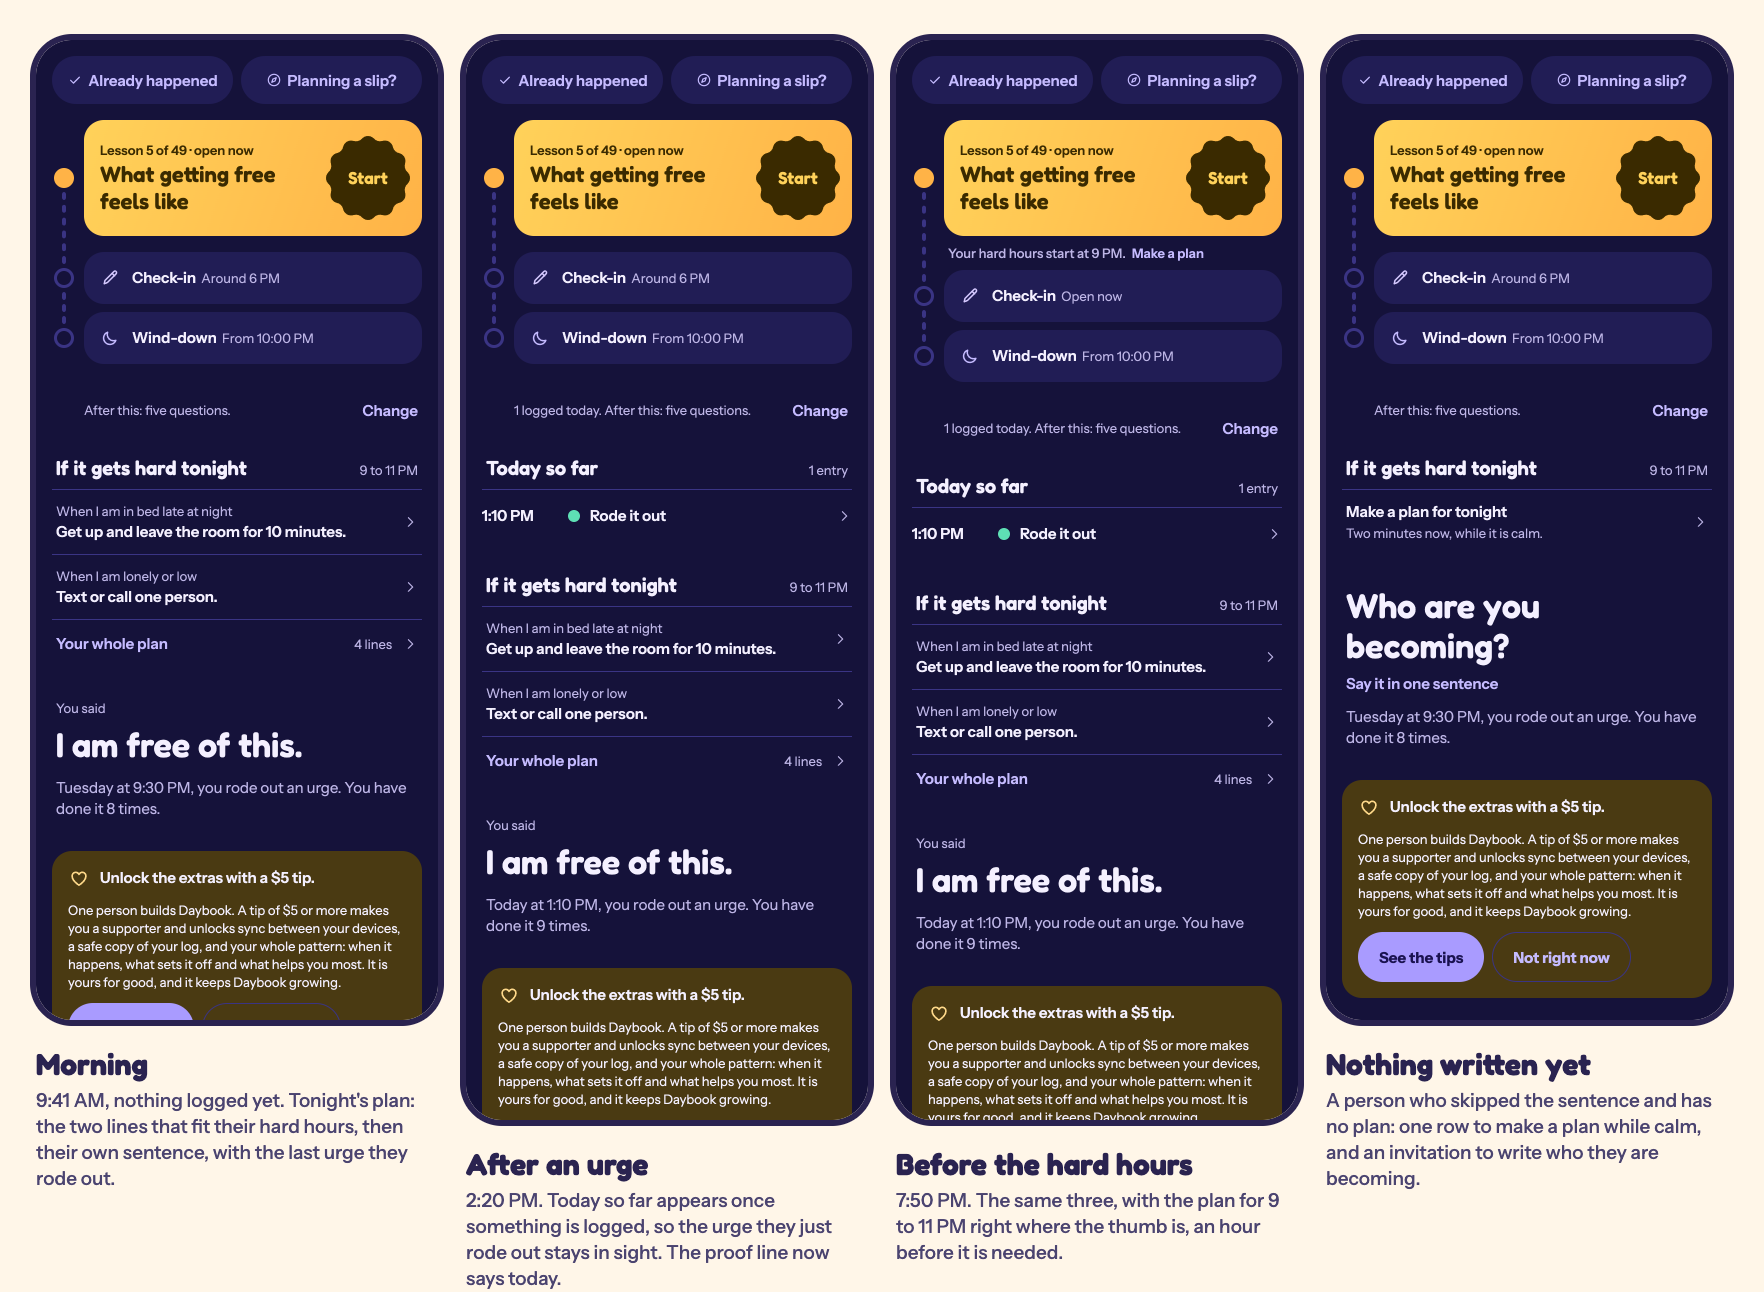
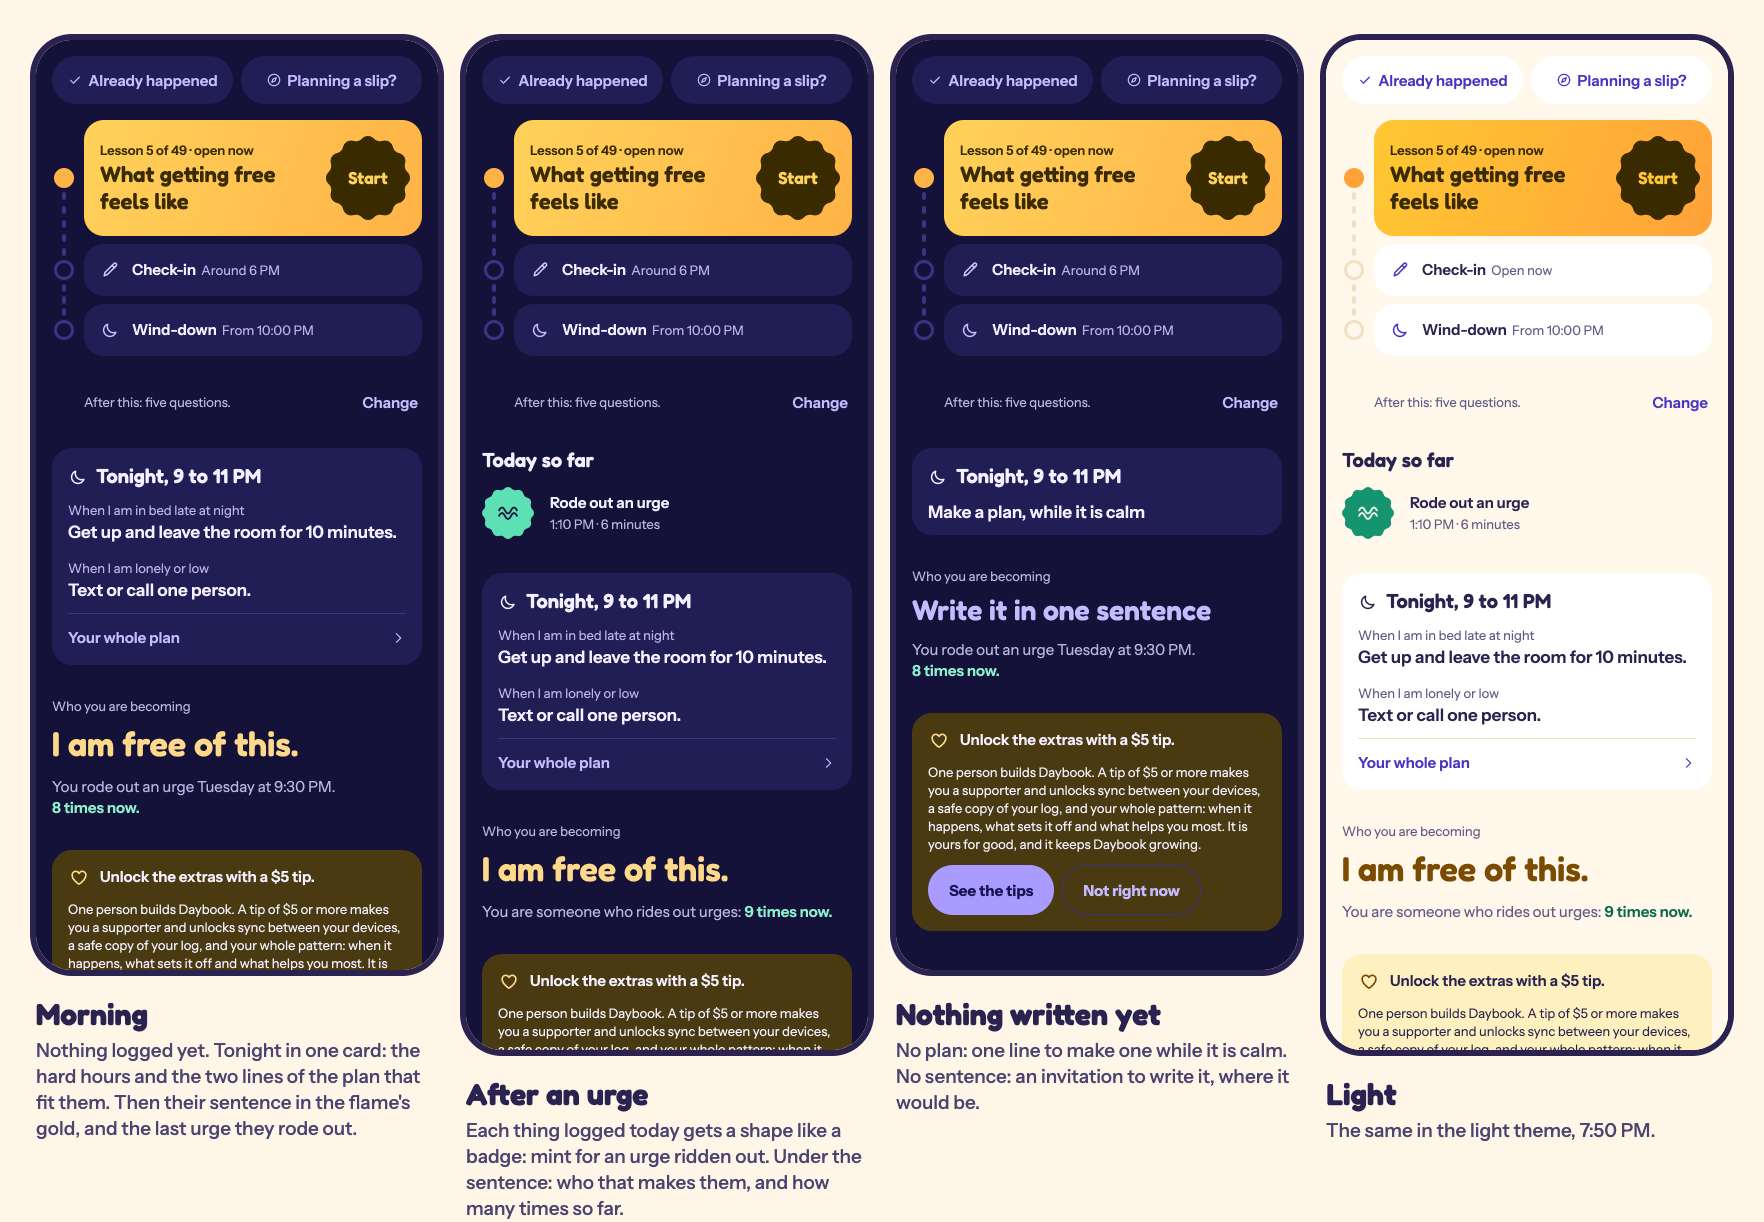
Today below Your day, polished: shapes for today's entries, tonight as one card, the sentence in gold (prototype)

diff --git a/apps/mobile/src/components/today-below.tsx b/apps/mobile/src/components/today-below.tsx
@@ -1,11 +1,12 @@
 /* PROTOTYPE (mockups only, not for merge): what Today holds under Your day, from the person's own words and record. ?below=1 on the
    web turns it on. Today so far (the day's entries, which only Journal shows now), Tonight's plan (the if-then lines from My plan,
    with the hard hours), and who you are becoming (the sentence from the end of setup, with one true line from the log). */
-import { addDays, eventRow, eventsOf, fmtDate, planBlank, riskWindow, type Snapshot } from '@daybook/core';
+import { addDays, eventRow, eventsOf, fmtDate, planBlank, riskWindow, sortedEvents, type Snapshot } from '@daybook/core';
 import { router } from 'expo-router';
 import { Pressable, StyleSheet, View } from 'react-native';
 
-import { EntryRows } from '@/components/entry-rows';
+import { Shape } from '@/components/shapes';
+import { Text } from '@/components/text';
 import { Icon, T } from '@/components/ui';
 import { buzz } from '@/lib/feel';
 import { font, useTheme } from '@/lib/theme';
@@ -20,15 +21,21 @@ const go = (p: string) => {
   router.push(p as never);
 };
 
-/** the latest urge ridden out in the last two weeks, said as a moment: "Tuesday at 9:30 PM, you rode out an urge." */
+/** the latest urge ridden out in the last two weeks, said as a moment ("Tuesday at 9:30 PM, you rode out an urge."), and how many in all */
 function proofOf(snap: Snapshot, tk: string) {
   const st = snap.settings!;
   const all = eventsOf(snap.days).filter((e) => e.outcome === 'rode' && e.key <= tk);
+  if (!all.length) return null;
+  /* one ridden out today is already in Today so far: say who that makes them instead */
+  if (all[all.length - 1].key === tk) return { t: 'You are someone who rides out urges:', n: all.length + '\u00a0times\u00a0now.' };
   const last = all.filter((e) => e.key >= addDays(tk, -13)).pop();
   if (!last) return null;
   const when = last.key === tk ? 'Today' : last.key === addDays(tk, -1) ? 'Yesterday' : fmtDate(last.key, { weekday: 'long' });
   const at = last.time ? ' at ' + eventRow(last, st).time : '';
-  return when + at + ', you rode out an urge. You have done it ' + all.length + ' times.';
+  return {
+    t: 'You rode out an urge ' + (when === 'Today' || when === 'Yesterday' ? when.toLowerCase() : when) + at + '.',
+    n: all.length === 1 ? 'Your\u00a0first.' : all.length + '\u00a0times\u00a0now.',
+  };
 }
 
 /** the two lines of the urge plan that fit tonight: the one for late at night when the hard hours are late, and the one for the
@@ -56,7 +63,7 @@ function planTonight(snap: Snapshot, tk: string) {
 export function TodayBelow({ snap, tk }: { snap: Snapshot; tk: string }) {
   const c = useTheme();
   const st = snap.settings!;
-  const n = (snap.days[tk]?.events || []).length;
+  const evs = sortedEvents(snap.days[tk], st.rollover);
   const plan = BLANK ? [] : planTonight(snap, tk);
   const all = (st.plan || []).filter((p) => !planBlank(p) && p.then.trim()).length;
   const be = BLANK ? '' : String(st.becoming || '').trim();
@@ -64,95 +71,78 @@ export function TodayBelow({ snap, tk }: { snap: Snapshot; tk: string }) {
   const proof = proofOf(snap, tk);
   return (
     <View style={s.all}>
-      {n ? (
+      {evs.length ? (
         <View style={s.sec}>
-          <View style={s.head}>
-            <T v="h2">Today so far</T>
-            <T v="small" tone="muted">
-              {n === 1 ? '1 entry' : n + ' entries'}
-            </T>
-          </View>
-          <EntryRows date={tk} />
+          <T v="h2" style={s.pad}>
+            Today so far
+          </T>
+          {evs.map((e) => {
+            const r = eventRow(e, st);
+            const rode = e.outcome === 'rode';
+            return (
+              <Pressable
+                key={e.id}
+                accessibilityRole="button"
+                onPress={() => go('/entry?date=' + tk + '&id=' + e.id)}
+                style={({ pressed }) => [s.moment, { opacity: pressed ? 0.8 : 1 }]}>
+                <Shape kind={rode ? 'cookie12' : 'clover4'} size={52} color={rode ? c.mint : c.slip} turn={rode ? 0 : 0.1}>
+                  <Icon name={rode ? 'wave' : 'leaf'} size={24} color={c.bg} />
+                </Shape>
+                <View style={{ flex: 1, gap: 2 }}>
+                  <T v="label">{rode ? 'Rode out an urge' : 'Logged a slip'}</T>
+                  <T v="small" tone="muted">
+                    {[r.time, e.m ? e.m + ' minutes' : '', (e.did || [])[0] || r.meta].filter(Boolean).join(' · ')}
+                  </T>
+                </View>
+              </Pressable>
+            );
+          })}
         </View>
       ) : null}
 
-      <View style={s.sec}>
-        <View style={s.head}>
-          <T v="h2">If it gets hard tonight</T>
-          {win ? (
-            <T v="small" tone="muted">
-              {win.label}
-            </T>
-          ) : null}
+      <View style={[s.card, { backgroundColor: c.surface }]}>
+        <View style={s.cardHead}>
+          <Icon name="moon" size={20} color={c.ink} />
+          <Text style={[s.cardH, { color: c.ink }]}>{win ? 'Tonight, ' + win.label : 'If it gets hard tonight'}</Text>
         </View>
         {plan.length ? (
-          <View>
-            {plan.map((p, i) => (
-              <Pressable
-                key={i}
-                accessibilityRole="button"
-                onPress={() => go('/plan')}
-                style={({ pressed }) => [s.row, { borderTopColor: c.line, opacity: pressed ? 0.75 : 1 }]}>
-                <View style={{ flex: 1, gap: 2 }}>
-                  <T v="small" tone="muted">
-                    When {p.when.replace(/^when\s+/i, '')}
-                  </T>
-                  <T v="label">{p.then}</T>
-                </View>
-                <Icon name="next" size={16} color={c.muted} />
-              </Pressable>
-            ))}
-            {all > plan.length ? (
-              <Pressable
-                accessibilityRole="button"
-                onPress={() => go('/plan')}
-                style={({ pressed }) => [s.row, { borderTopColor: c.line, minHeight: 48, opacity: pressed ? 0.75 : 1 }]}>
-                <T v="label" tone="accentText" style={{ flex: 1 }}>
-                  Your whole plan
-                </T>
-                <T v="small" tone="muted">
-                  {all} lines
-                </T>
-                <Icon name="next" size={16} color={c.muted} />
-              </Pressable>
-            ) : null}
-          </View>
-        ) : (
-          <Pressable
-            accessibilityRole="button"
-            onPress={() => go('/talk')}
-            style={({ pressed }) => [s.row, { borderTopColor: c.line, opacity: pressed ? 0.75 : 1 }]}>
-            <View style={{ flex: 1, gap: 2 }}>
-              <T v="label">Make a plan for tonight</T>
+          plan.map((p, i) => (
+            <Pressable key={i} accessibilityRole="button" onPress={() => go('/plan')} style={({ pressed }) => [s.line, { opacity: pressed ? 0.8 : 1 }]}>
               <T v="small" tone="muted">
-                Two minutes now, while it is calm.
+                When {p.when.replace(/^when\s+/i, '').replace(/^I am\b/, 'I am')}
               </T>
-            </View>
-            <Icon name="next" size={16} color={c.muted} />
+              <T style={[s.then, { color: c.ink }]}>{p.then}</T>
+            </Pressable>
+          ))
+        ) : (
+          <Pressable accessibilityRole="button" onPress={() => go('/talk')} style={({ pressed }) => [s.line, { opacity: pressed ? 0.8 : 1 }]}>
+            <T style={[s.then, { color: c.ink }]}>Make a plan, while it is calm</T>
           </Pressable>
         )}
+        {plan.length && all > plan.length ? (
+          <Pressable
+            accessibilityRole="button"
+            onPress={() => go('/plan')}
+            style={({ pressed }) => [s.foot, { borderTopColor: c.line, opacity: pressed ? 0.8 : 1 }]}>
+            <T v="label" tone="accentText" style={{ flex: 1 }}>
+              Your whole plan
+            </T>
+            <Icon name="next" size={16} color={c.accentText} />
+          </Pressable>
+        ) : null}
       </View>
 
-      <Pressable accessibilityRole="button" onPress={() => go('/plan')} style={({ pressed }) => [s.be, { opacity: pressed ? 0.8 : 1 }]}>
-        {be ? (
-          <>
-            <T v="small" tone="muted">
-              You said
-            </T>
-            <T style={[s.beT, { color: c.ink }]}>{be}</T>
-          </>
-        ) : (
-          <>
-            <T style={[s.beT, { color: c.ink }]}>Who are you becoming?</T>
-            <T v="label" tone="accentText">
-              Say it in one sentence
-            </T>
-          </>
-        )}
+      <Pressable accessibilityRole="button" onPress={() => go('/plan')} style={({ pressed }) => [s.be, { opacity: pressed ? 0.85 : 1 }]}>
+        <T v="small" tone="muted">
+          Who you are becoming
+        </T>
+        <Text style={[s.beT, { color: be ? c.sunText : c.accentText }, !be && { fontSize: 28, lineHeight: 34 }]}>{be || 'Write it in one sentence'}</Text>
         {proof ? (
-          <T tone="muted" style={s.proof}>
-            {proof}
-          </T>
+          <View style={s.proof}>
+            <Text style={[s.proofT, { color: c.muted }]}>
+              {proof.t} <Text style={{ color: c.mintText, fontFamily: font.bodySemi }}>{proof.n}</Text>
+            </Text>
+          </View>
         ) : null}
       </Pressable>
     </View>
@@ -161,10 +151,17 @@ export function TodayBelow({ snap, tk }: { snap: Snapshot; tk: string }) {
 
 const s = StyleSheet.create({
   all: { gap: 32, paddingTop: 8 },
-  sec: { gap: 8 },
-  head: { flexDirection: 'row', alignItems: 'baseline', justifyContent: 'space-between', paddingHorizontal: 4 },
-  row: { flexDirection: 'row', alignItems: 'center', gap: 10, paddingVertical: 12, paddingHorizontal: 4, borderTopWidth: 1, minHeight: 56 },
-  be: { gap: 8, paddingHorizontal: 4, paddingBottom: 16 },
-  beT: { fontFamily: font.display, fontSize: 34, lineHeight: 40 },
-  proof: { fontSize: 15, lineHeight: 21, marginTop: 4 },
+  sec: { gap: 12 },
+  pad: {},
+  moment: { flexDirection: 'row', alignItems: 'center', gap: 16, minHeight: 56 },
+  card: { borderRadius: 20, padding: 16, paddingBottom: 4 },
+  cardHead: { flexDirection: 'row', alignItems: 'center', gap: 8, paddingBottom: 4 },
+  cardH: { fontFamily: font.display, fontSize: 20, lineHeight: 25 },
+  line: { gap: 2, paddingVertical: 8 },
+  then: { fontFamily: font.bodySemi, fontSize: 17, lineHeight: 22 },
+  foot: { flexDirection: 'row', alignItems: 'center', minHeight: 48, marginTop: 4, borderTopWidth: StyleSheet.hairlineWidth },
+  be: { gap: 8, paddingBottom: 16 },
+  beT: { fontFamily: font.display, fontSize: 34, lineHeight: 41 },
+  proof: { marginTop: 4 },
+  proofT: { fontFamily: font.body, fontSize: 15, lineHeight: 21 },
 });

diff --git a/apps/mobile/src/app/(tabs)/index.tsx b/apps/mobile/src/app/(tabs)/index.tsx
@@ -320,13 +320,13 @@ export default function Today() {
           </View>
         ) : null}
         <YourDay
-          note={<HardLine snap={snap} tk={tk} now={now} />}
+          note={BELOW ? null : <HardLine snap={snap} tk={tk} now={now} />}
           footOff={Platform.OS === 'ios' && atRest}
           snap={snap}
           tk={tk}
           now={now}
           hero={calm ? pick.card : null}
-          foot={[note ? note + '.' : '', pick.more ? 'After this: ' + pick.more.one + '.' : ''].filter(Boolean).join(' ')}
+          foot={[note && !BELOW ? note + '.' : '', pick.more ? 'After this: ' + pick.more.one + '.' : ''].filter(Boolean).join(' ')}
         />
         {BELOW ? <TodayBelow snap={snap} tk={tk} /> : null}
         <SyncStrip />

diff --git a/docs/plan.md b/docs/plan.md
@@ -93,6 +93,12 @@ bring up what the person already wrote in setup and what they already logged (it
 - **Who you are becoming:** the sentence from the end of setup, big, with one true line from the log ("Tuesday at 9:30 PM, you rode out
   an urge. You have done it 8 times."). Without the sentence, an invitation to write it.
 
+The owner then asked for it to look well designed and polished. Redrawn in the style of Journal and Milestones, then checked by an
+independent design review: each thing logged today gets a shape like a badge (mint for an urge ridden out); tonight is one card (its
+fill, one hairline above "Your whole plan"); the sentence is big in the flame's gold, with the proof line under it in plain text, the
+count in mint. One heading style, one left edge, no explaining subtitle. The line under the lesson about the hard hours and
+"1 logged today" are left out, since these sections say it now. Light theme drawn too.
+
 Picture: docs/today-review/today-below.png (morning, after an urge, before the hard hours, nothing written yet). Prototype only, behind
 `?below=1` (`components/today-below.tsx`). For a real build: the rules go to core with tests; the line under the lesson ("Your hard hours
 start at 9 PM. Make a plan") and "1 logged today" in the foot say what these sections now say, so they go; light theme not drawn yet.
